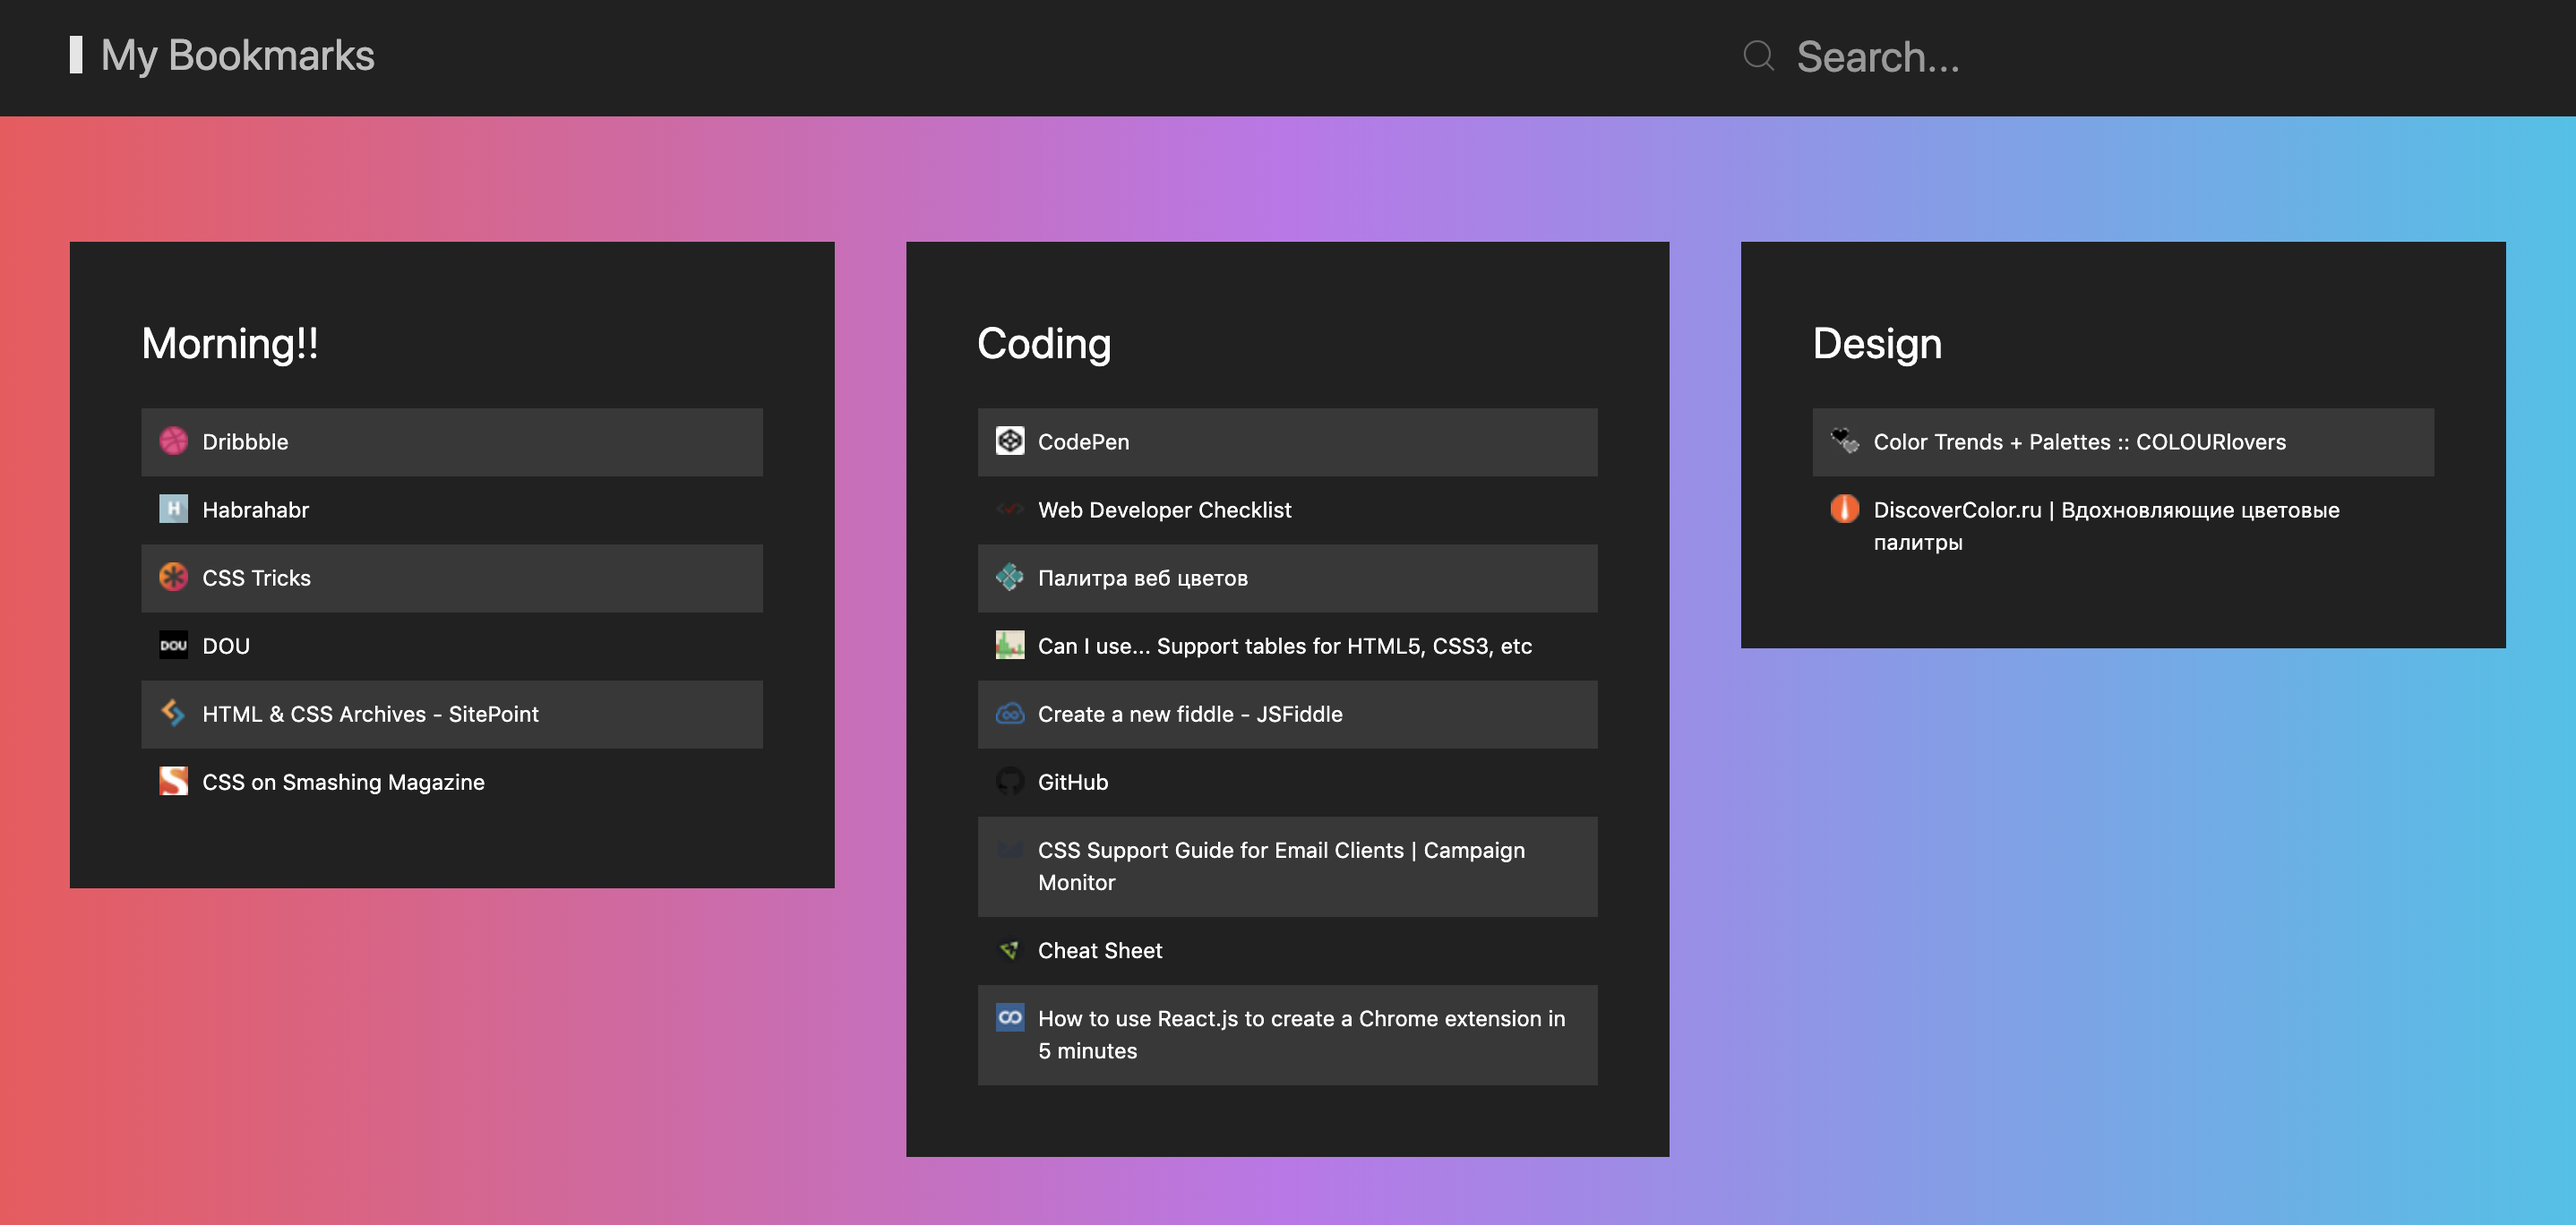
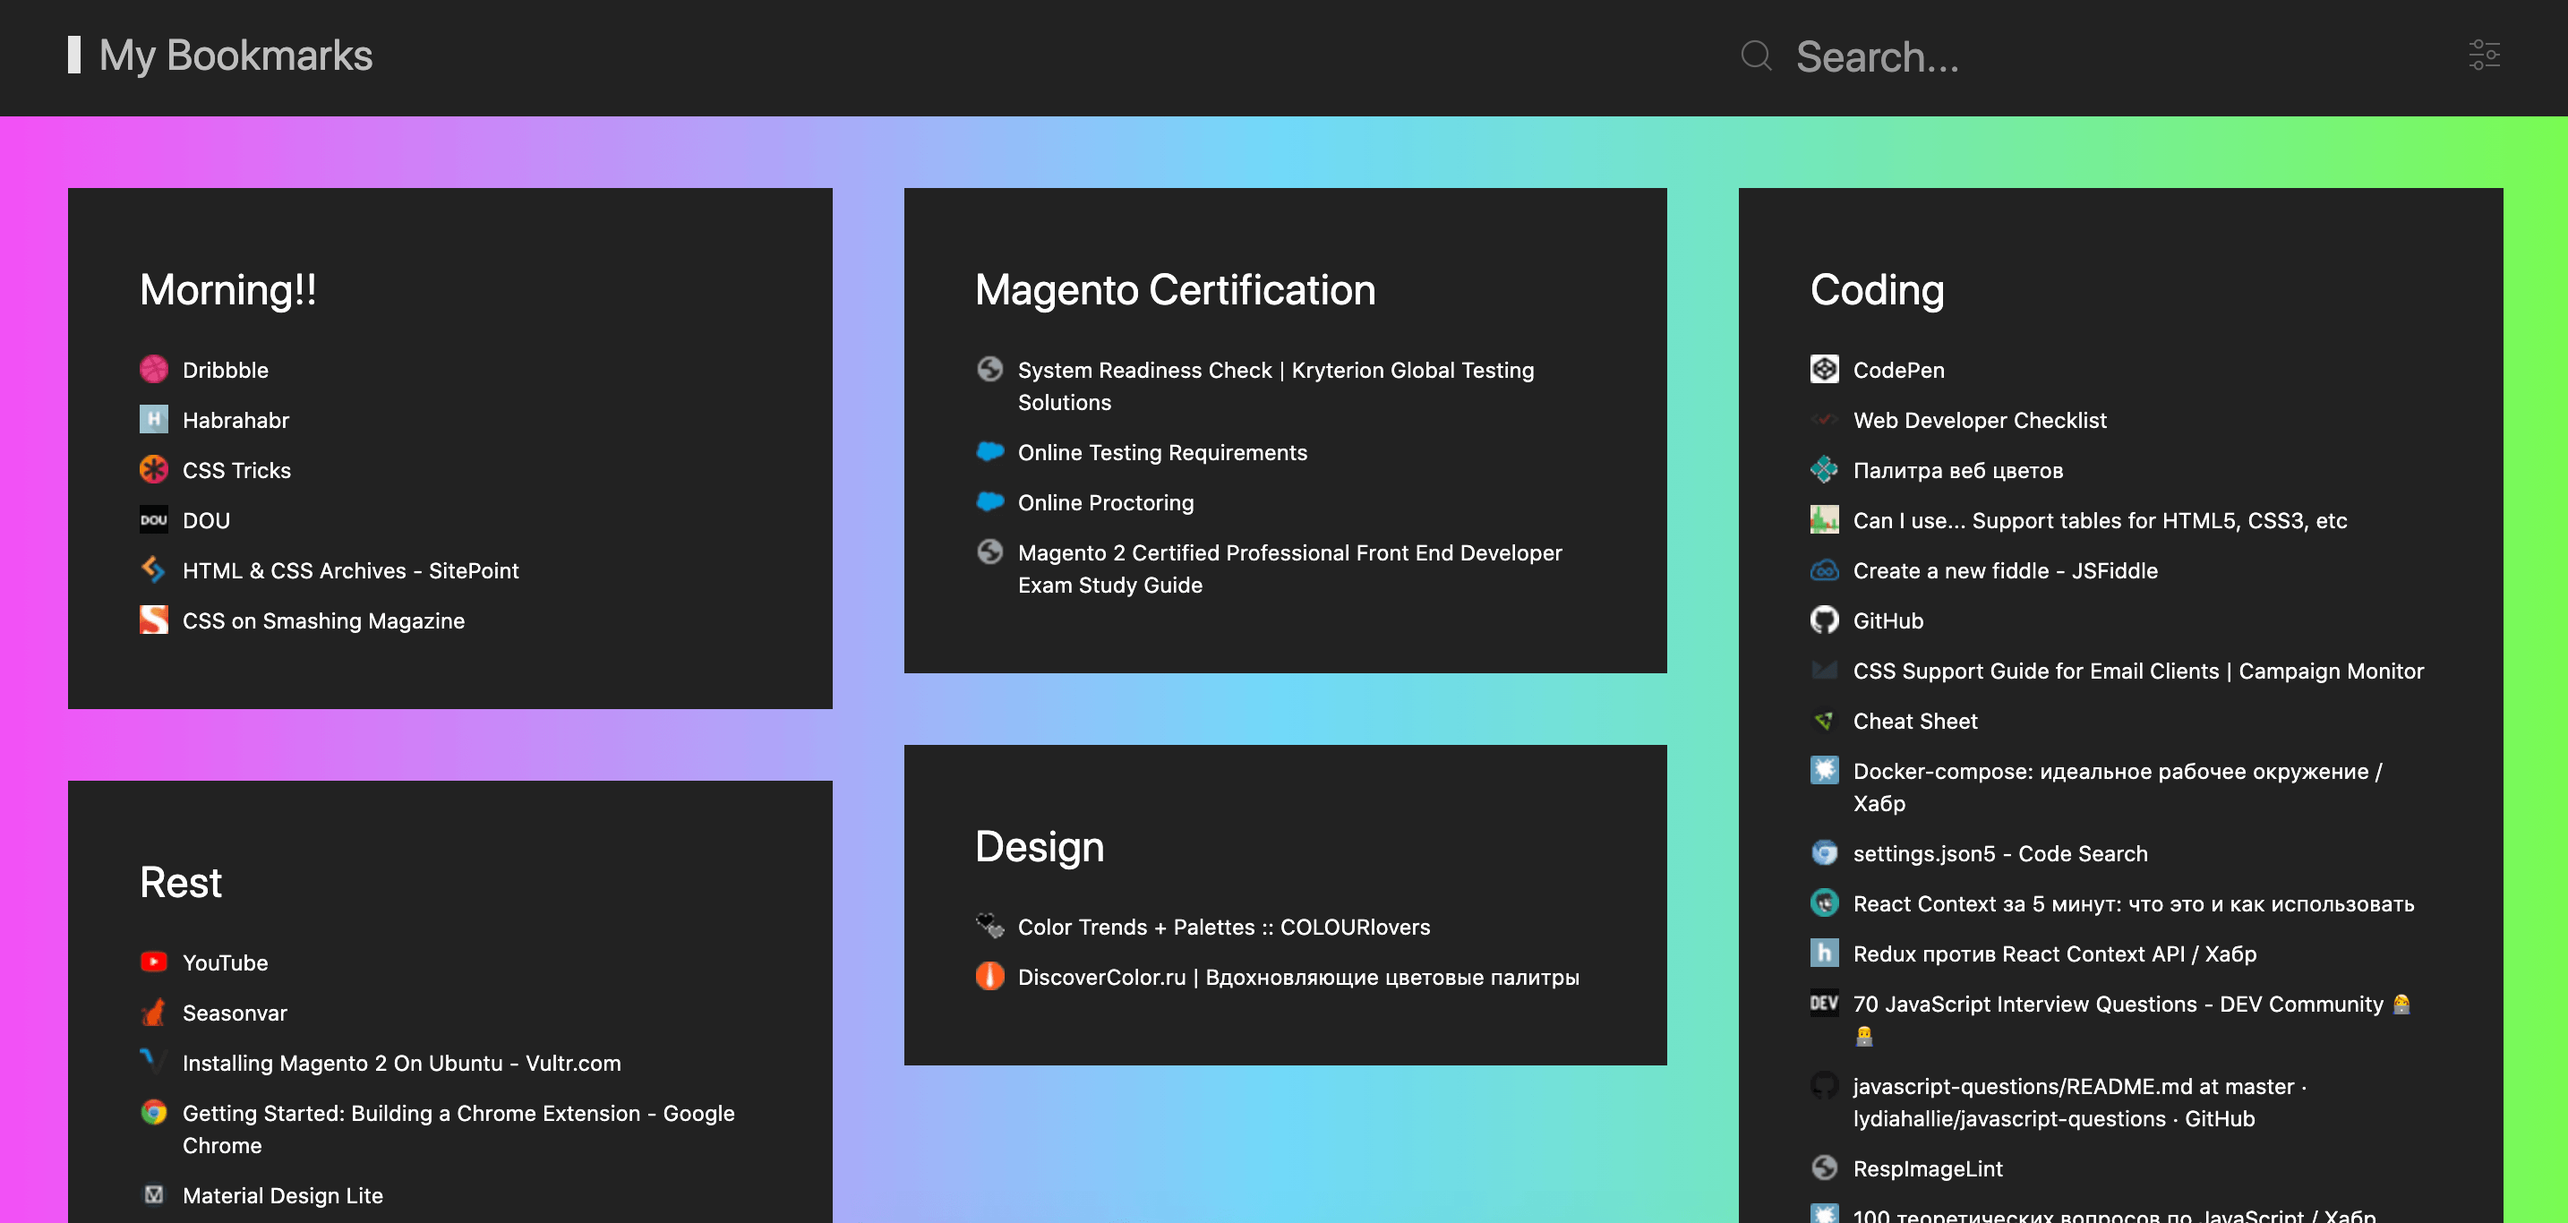
README update

diff --git a/README.md b/README.md
@@ -4,8 +4,12 @@ This project is a Google Chrome extension which shows user's bookmarks in a star
 
 Additional features:
 
-+ Search though the bookmarks and folders
++ Search bookmarks and folders
 + Remove bookmarks
++ During search if there is only one result press ENTER to browse website immediately
++ Configure appearence
+    + Create a unique 3-color gradient background
+    + Dark/light theme support
 
 ![Screenshot of CS Useful Bookmarks](./public/preview.png)
 
@@ -33,4 +37,3 @@ The extenstion will appear in the new Chrome tab.
 + Drag and drop folders to reorder
 + Drag and drop bookmarks to move between folders
 + <del>Search: open bookmark on submit, if there is only one result</del>
-
